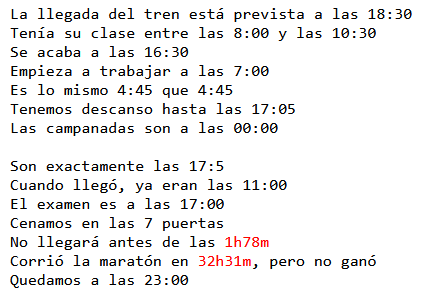
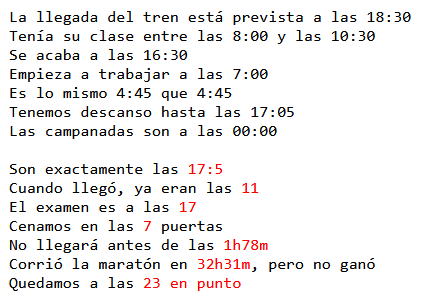
entrega definitiva

Changed region(s): [[0.0, 0.03, 0.9742, 0.48], [0.0, 0.54, 0.8829, 0.96], [0.548, 0.21, 0.6393, 0.27]]

diff --git a/horas_normalizadas.html b/horas_normalizadas.html
@@ -7,11 +7,11 @@ Es lo mismo 4:45 que 4:45
 Tenemos descanso hasta las 17:05
 Las campanadas son a las 00:00
 
-Son exactamente las 17:5
-Cuando llegó, ya eran las 11:00
-El examen es a las 17:00
-Cenamos en las 7 puertas
-No llegará antes de las <span style="color:red">1h78m</span>
-Corrió la maratón en <span style="color:red">32h31m</span>, pero no ganó
-Quedamos a las 23:00
+Son exactamente las <span style = "color:red">17:5</span>
+Cuando llegó, ya eran las <span style = "color:red">11</span>
+El examen es a las <span style = "color:red">17</span>
+Cenamos en las <span style = "color:red">7</span> puertas
+No llegará antes de las <span style = "color:red">1h78m</span>
+Corrió la maratón en <span style = "color:red">32h31m</span>, pero no ganó
+Quedamos a las <span style = "color:red">23 en punto</span>
 </pre></body></html>

diff --git a/horas.py b/horas.py
@@ -5,6 +5,9 @@ def normalizaHoras(ficText, ficNorm):
     """
     Función que normaliza horas de un fichero de texto a un formato HH:MM
     """
+    def rojo(texto):
+        return f'<span style = "color:red">{texto}</span>' #devuelve en rojo las expresiones incorrectas
+
     def reemplaza(match):
         grupo = match.group()
 
@@ -13,22 +16,24 @@ def normalizaHoras(ficText, ficNorm):
         h_m = re.match(r'^(\d{1,2})h(?:(\d{1,2})m?)?$', grupo)
         if h_m:
             h = int(h_m.group(1))
-            m = int(h_m.group(2)) if h_m.group(2) else 0
-            if h < 24 and m <60:
+            m_str = h_m.group(2)
+            m = int(m_str) if m_str else 0
+            if  h < 24 and m <60:
                 return f'{h}:{m:02d}'
             else:
-                return f'<span style="color:red">{grupo}</span>'
+                return rojo(grupo)
         
         # 8:30 o 18:05
 
-        h_p_m = re.match(r'^(\d{1,2}):(\d{2})$', grupo)
+        h_p_m = re.match(r'^(\d{1,2}):(\d{1,2})$', grupo)
         if h_p_m:
             h = int(h_p_m.group(1))
-            m = int(h_p_m.group(2))
-            if h < 24 and m < 60:
+            m_str = h_p_m.group(2)
+            m = int(m_str)
+            if  h < 24 and m <60 and (m_str is None or len(m_str) == 2):
                 return f'{h}:{m:02d}'
             else:
-                return f'<span style="color:red">{grupo}</span>'
+                return rojo(grupo)
         
         # hora hablada
 
@@ -36,6 +41,9 @@ def normalizaHoras(ficText, ficNorm):
         if hablado:
             h = int(hablado.group(1))
             f = hablado.group(2)
+
+            if not (1 <= h <=12):
+                return rojo(grupo) # horas habladas correctamente son entre 1 y 12
 
             if f == 'en punto':
                 m = 0
@@ -78,12 +86,13 @@ def normalizaHoras(ficText, ficNorm):
                     pass
             elif p == 'tarde':
                 if 1 <= h <= 7:
-                    h += 12
+                    h += 12     
             elif p == 'noche':
                 if 8 <= h <= 11:
                     h += 12
                 elif h == 12:
-                    return '00:00'  
+                    return '00:00'
+                        
             return f'{h}:{m:02d}'
         
         # momento del día
@@ -96,23 +105,27 @@ def normalizaHoras(ficText, ficNorm):
             if p == 'mañana':
                 if 1 <= h <= 11:
                     pass
+                return rojo(grupo)
             elif p == 'tarde':
                 if 1 <= h <= 7:
                     h += 12
+                return rojo(grupo)
             elif p == 'noche':
                 if 8 <= h <= 11:
                     h += 12
                 elif h == 12:
-                    return '00:00'  
+                    return '00:00'
+                else:
+                    return rojo(grupo)
+                
             return f'{h}:{m:02d}'
         
         return rojo(grupo)
     
-    def rojo(texto):
-        return f'<span style = "color:red">{texto}</span>' #devuelve en rojo las expresiones incorrectas
              
     
-    compila= re.compile (r'\b\d{1,2}h(?:\d{1,2}m?)?'r'|\b\d{1,2}:\d{2}'r'|\b\d{1,2}\s*(?:en punto|y cuarto|y media|menos cuarto)(?:\s+de la\s+(?:mañana|tarde|noche))?'r'|\b\d{1,2}\s+de la\s+(?:mañana|tarde|noche)')
+    compila= re.compile (r'\b\d{1,2}h(?:\d{1,2}m?)?'r'|\b\d{1,2}:\d{1,2}'r'|\b\d{1,2}\s*(?:en punto|y cuarto|y media|menos cuarto)(?:\s+de la\s+(?:mañana|tarde|noche))?'r'|\b\d{1,2}\s+de la\s+(?:mañana|tarde|noche)'r'|(?<=\blas\s)\d{1,2}\b'r'|(?<=\ba las\s)\d{1,2}\b')
+    # r'|(?<=\blas\s)\d{1,2}\b'r'|(?<=\ba las\s)\d{1,2}\b' --> números precedidos por a las o las
 
     with open(ficText, encoding = 'utf-8') as entrada, open(ficNorm, 'w', encoding = 'utf-8') as salida:
         salida.write('<htm><body><pre style="font-family:monospace;">\n')

diff --git a/README.md b/README.md
@@ -301,6 +301,9 @@ def normalizaHoras(ficText, ficNorm):
     """
     Función que normaliza horas de un fichero de texto a un formato HH:MM
     """
+    def rojo(texto):
+        return f'<span style = "color:red">{texto}</span>' #devuelve en rojo las expresiones incorrectas
+
     def reemplaza(match):
         grupo = match.group()
 
@@ -309,22 +312,24 @@ def normalizaHoras(ficText, ficNorm):
         h_m = re.match(r'^(\d{1,2})h(?:(\d{1,2})m?)?$', grupo)
         if h_m:
             h = int(h_m.group(1))
-            m = int(h_m.group(2)) if h_m.group(2) else 0
-            if h < 24 and m <60:
+            m_str = h_m.group(2)
+            m = int(m_str) if m_str else 0
+            if  h < 24 and m <60:
                 return f'{h}:{m:02d}'
             else:
-                return f'<span style="color:red">{grupo}</span>'
+                return rojo(grupo)
         
         # 8:30 o 18:05
 
-        h_p_m = re.match(r'^(\d{1,2}):(\d{2})$', grupo)
+        h_p_m = re.match(r'^(\d{1,2}):(\d{1,2})$', grupo)
         if h_p_m:
             h = int(h_p_m.group(1))
-            m = int(h_p_m.group(2))
-            if h < 24 and m < 60:
+            m_str = h_p_m.group(2)
+            m = int(m_str)
+            if  h < 24 and m <60 and (m_str is None or len(m_str) == 2):
                 return f'{h}:{m:02d}'
             else:
-                return f'<span style="color:red">{grupo}</span>'
+                return rojo(grupo)
         
         # hora hablada
 
@@ -332,6 +337,9 @@ def normalizaHoras(ficText, ficNorm):
         if hablado:
             h = int(hablado.group(1))
             f = hablado.group(2)
+
+            if not (1 <= h <=12):
+                return rojo(grupo) # horas habladas correctamente son entre 1 y 12
 
             if f == 'en punto':
                 m = 0
@@ -374,12 +382,13 @@ def normalizaHoras(ficText, ficNorm):
                     pass
             elif p == 'tarde':
                 if 1 <= h <= 7:
-                    h += 12
+                    h += 12     
             elif p == 'noche':
                 if 8 <= h <= 11:
                     h += 12
                 elif h == 12:
-                    return '00:00'  
+                    return '00:00'
+                        
             return f'{h}:{m:02d}'
         
         # momento del día
@@ -392,23 +401,27 @@ def normalizaHoras(ficText, ficNorm):
             if p == 'mañana':
                 if 1 <= h <= 11:
                     pass
+                return rojo(grupo)
             elif p == 'tarde':
                 if 1 <= h <= 7:
                     h += 12
+                return rojo(grupo)
             elif p == 'noche':
                 if 8 <= h <= 11:
                     h += 12
                 elif h == 12:
-                    return '00:00'  
+                    return '00:00'
+                else:
+                    return rojo(grupo)
+                
             return f'{h}:{m:02d}'
         
         return rojo(grupo)
     
-    def rojo(texto):
-        return f'<span style = "color:red">{texto}</span>' #devuelve en rojo las expresiones incorrectas
              
     
-    compila= re.compile (r'\b\d{1,2}h(?:\d{1,2}m?)?'r'|\b\d{1,2}:\d{2}'r'|\b\d{1,2}\s*(?:en punto|y cuarto|y media|menos cuarto)(?:\s+de la\s+(?:mañana|tarde|noche))?'r'|\b\d{1,2}\s+de la\s+(?:mañana|tarde|noche)')
+    compila= re.compile (r'\b\d{1,2}h(?:\d{1,2}m?)?'r'|\b\d{1,2}:\d{1,2}'r'|\b\d{1,2}\s*(?:en punto|y cuarto|y media|menos cuarto)(?:\s+de la\s+(?:mañana|tarde|noche))?'r'|\b\d{1,2}\s+de la\s+(?:mañana|tarde|noche)'r'|(?<=\blas\s)\d{1,2}\b'r'|(?<=\ba las\s)\d{1,2}\b')
+    # r'|(?<=\blas\s)\d{1,2}\b'r'|(?<=\ba las\s)\d{1,2}\b' --> números precedidos por a las o las
 
     with open(ficText, encoding = 'utf-8') as entrada, open(ficNorm, 'w', encoding = 'utf-8') as salida:
         salida.write('<htm><body><pre style="font-family:monospace;">\n')
@@ -422,6 +435,8 @@ normalizaHoras('horas.txt', 'horas_normalizadas.txt')
 normalizaHoras('horas.txt', 'horas_normalizadas.html') # para que se vea el color rojo
 
 ```
+###### Fichero de horas normalizadas en html:
+
 ![alt text](image-1.png)
 
 ##### Subida del resultado al repositorio GitHub y *pull-request*
